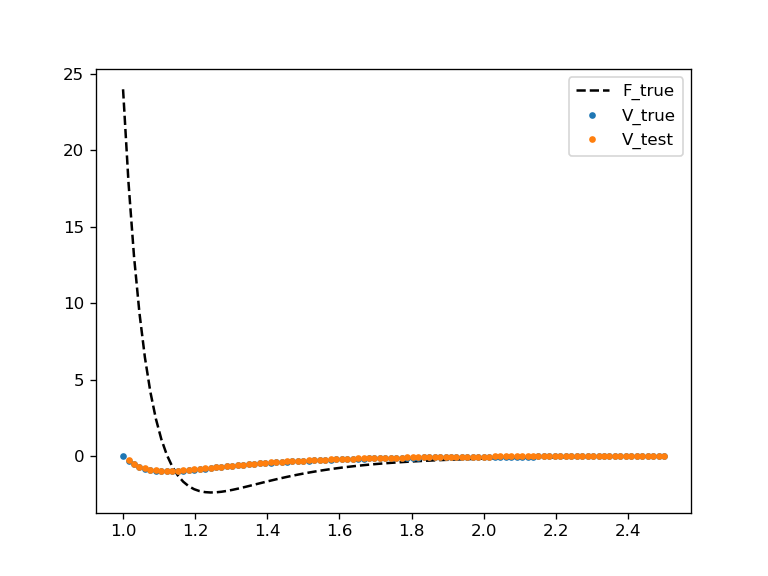
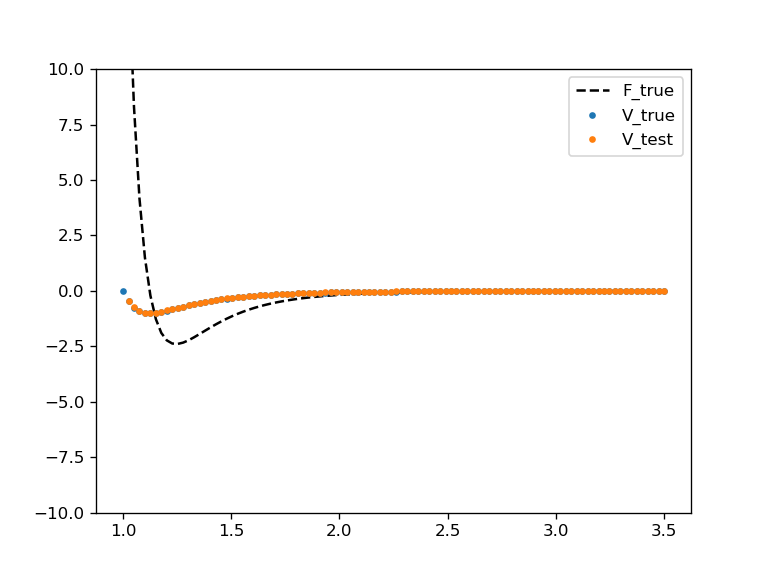
adding assertion that forces got to approx 0 before calculating potential

diff --git a/toolbox/__init__.py b/toolbox/__init__.py
@@ -1,0 +1,87 @@
+"""Contains functions that are commonly used in polymer-colloid studies."""
+
+import matplotlib.pyplot as plt
+import numpy as np
+import os
+import pandas as pd
+from scipy import integrate
+
+def lj(r, epsilon, sigma, R):
+    """Return lennard jones force and potential."""
+    F = 4 * epsilon / (r-R) * (12 * (sigma / (r-R))**12 - 6 * (sigma / (r-R))**6)
+    V = 4 * epsilon * ((sigma / (r-R))**12 - (sigma / (r-R))**6)
+    return(V, F)
+
+def force_to_potential(dist, force):
+    """
+    Return potential (V) for tabulated force using trapezoidal integration.
+
+    Assumes the potential goes to 0 at last data point.
+    Keyword arguments:
+    dist -- 1D numpy array containing interparticle distances
+    force -- 1D numpy array containing the corresponding force values
+    """
+    assert(np.abs(force[-1]) < 0.01)
+    V_trap = -integrate.cumtrapz(y=force, x=dist)
+    V_trap -= V_trap[-1]
+    return V_trap
+
+
+def potential_to_force(dist, potential):
+    """
+    Return force for a given tabulated potential using numpy gradient method.
+
+    Assumes a uniform spacing between dist values.
+    Keyword arguments:
+    dist -- 1D numpy array containing interparticle distances
+    force -- 1D numpy array containing the corresponding potential values
+    """
+    interval = dist[1]-dist[0]
+    F = -np.gradient(potential, interval)
+    return F
+
+
+def statepoint_df(project):
+    """Return a pandas dataframe for all statepoints in a project."""
+    df_index = pd.DataFrame(project.index())
+    df_index = df_index.set_index(['_id'])
+    statepoints = {doc['_id']: doc['statepoint'] for doc in project.index()}
+    df = pd.DataFrame(statepoints).T.join(df_index)
+    return df
+
+
+def periodicBC(vec, box):
+    """ periodic BC from E. Teich's PHYS 514 hw 3 (courtesy of E. Gull) """
+    newvec=np.copy(vec)
+    if (newvec[0] > box[0]/2.): newvec[0] -= box[0]
+    if (newvec[0] < -box[0]/2.): newvec[0] += box[0]
+    if (newvec[1] > box[1]/2.): newvec[1] -= box[1]
+    if (newvec[1] < -box[1]/2.): newvec[1] += box[1]
+    if (newvec[2] > box[2]/2.): newvec[2] -= box[2]
+    if (newvec[2] < -box[2]/2.): newvec[2] += box[2]
+    return newvec
+
+def autocorr(x):
+    """perform autocorrelation on an array of scalars"""
+    n = len(x)
+    x = x-x.mean()
+    r = np.correlate(x,x,mode ='full')[-n:]
+    r /= np.max(r)
+    return r
+
+
+def vector_autocorr(vec):
+    """perform autocorrelation on an array of vectors,
+       returns a list containing correlation values
+       """
+    n = len(vec)
+    mean = np.mean(vec, axis=0)
+
+    R = np.zeros(n)
+    for k in np.arange(0,n):
+        sum = 0
+        for t in np.arange(0, n-k):
+            sum += np.dot(vec[t],vec[t+k])
+        R[k]=sum/((n-k))
+    R /= max(R)
+    return R

diff --git a/test_toolbox.py b/test_toolbox.py
@@ -11,7 +11,7 @@ class PotentialTests(unittest.TestCase):
         self.epsilon = 1.0
         self.sigma = 1.0
         self.R = 0
-        self.r_values = np.linspace(1+self.R, 2.5*self.sigma+self.R, 100)
+        self.r_values = np.linspace(1+self.R, 3.5*self.sigma+self.R, 100)
         self.V_true, self.F_true = lj(r=self.r_values,
                             epsilon=self.epsilon,
                             sigma=self.sigma,
@@ -23,12 +23,13 @@ class PotentialTests(unittest.TestCase):
         """Uses a lj potential to test force_to_potential()."""
         # TODO: Come up with reasonable and universal criteria
 
+        print(self.F_true[-1])
         V_test = force_to_potential(self.r_values, self.F_true)
-
         plt.figure(dpi=120)
         plt.plot(self.r_values, self.F_true, 'k--', label='F_true')
         plt.plot(self.r_values, self.V_true, '.', label='V_true')
         plt.plot(self.r_values[1:], V_test,'.', label='V_test')
+        plt.ylim(-10,10)
         plt.legend()
         plt.savefig('test_f2p.png')
 

diff --git a/setup.py b/setup.py
@@ -12,7 +12,7 @@ setuptools.setup(
     long_description = long_description,
     long_description_content_type="text/markdown",
     url="https://github.com/atravitz/toolbox.git",
-    packages=setuptools.find_packages(),
+    packages=setuptools.find_packages(exclude=('tests')),
     classifiers=[
         "Programming Language :: Python :: 3",
         "License : OSI Approved :: MIT License",
